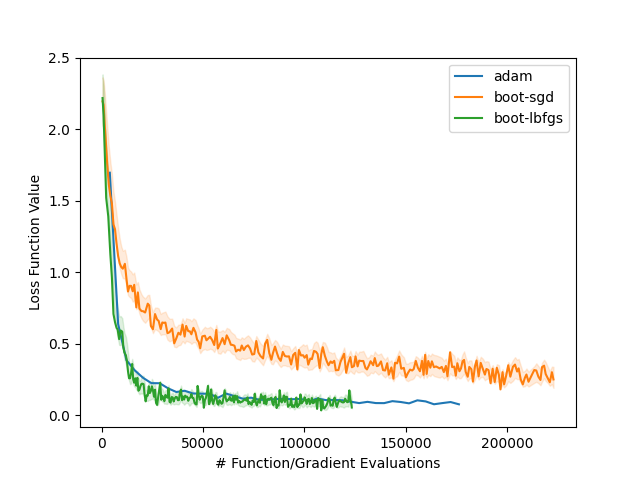
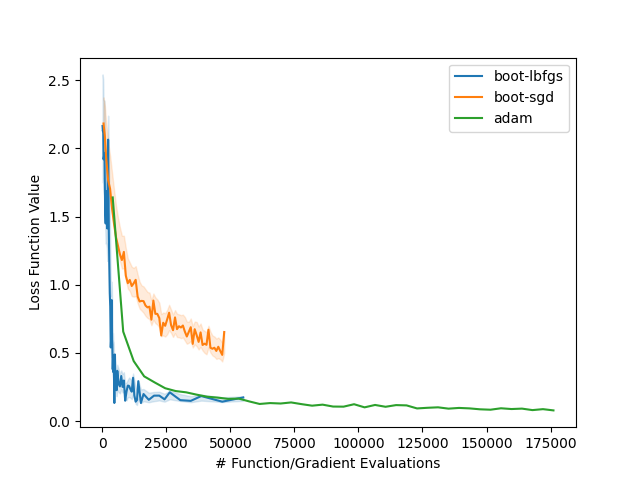
Added result from test.

diff --git a/boots/benchmark.py b/boots/benchmark.py
@@ -97,7 +97,7 @@ def run_tests(training_data=None, validation_data=None, num_trials=1, fn_args=No
     "boot-lbfgs": {
       "compile_args": {
         "loss": keras.losses.CategoricalCrossentropy(reduction="none"),
-        "optimizer": LbfgsOptimizer(linesearch=linesearch, convergence_window=6, max_errors_in_window=2),
+        "optimizer": LbfgsOptimizer(linesearch=linesearch, convergence_window=6, max_errors_in_window=1),
         "bootstrap_fn": bootstrap_fn,
         "metrics": ["accuracy"],
         "jacobian_batch_size": 2,
